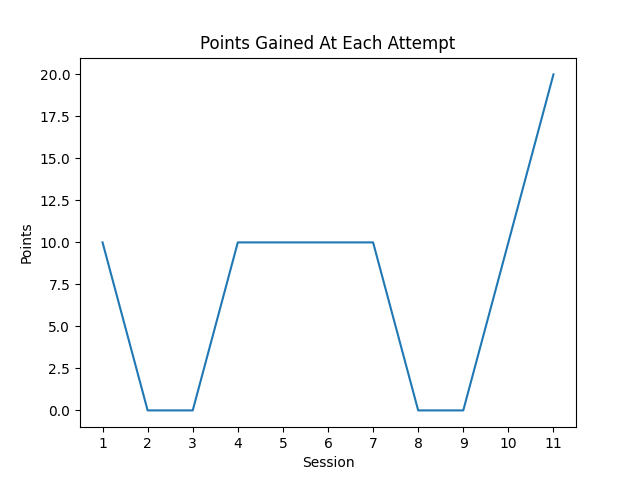
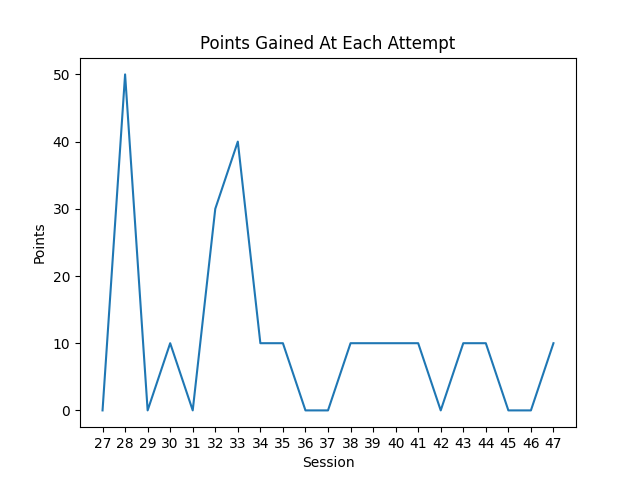
changed graph to only show last 20 attempts

diff --git a/menu.py b/menu.py
@@ -1,6 +1,6 @@
 import pygame, os, re, sys, WINDOW, game_level
 from boxes import Textbox
-from boxes import BoxGroup, DynamicBox
+from boxes import BoxGroup, StaticBox
 from transition import ScreenFade
 import matplotlib.pyplot as plt
 pygame.init()
@@ -51,11 +51,18 @@ def show_leaderboards(surface, user_data) -> None:
 def get_graph(username) -> None:
     user_data = WINDOW.read_json('user_info/users.json')
     points = user_data[username]['points']
+    start_x, end_x = 1, len(points)
+    if len(points) > 20:
+
+        start_x = len(points) - 20
+        end_x = len(points)
+        points = points[-21:]
+    x_range = range(start_x, end_x + 1)
     # points = [sum(points[:i]) for i in range(1,len(points))] # cumulative points
     color = 'black'
     fig, axis = plt.subplots(nrows=1,ncols=1) # just one graph
-    plt.xticks(range(1, len(points)+1, 1),color=color)
-    axis.plot([*range(1, len(points)+1)], points)
+    plt.xticks(x_range, color=color)
+    axis.plot(list(x_range), points)
     plt.xlabel('Session', color=color)
     plt.ylabel('Points', color=color)
 
@@ -111,7 +118,7 @@ def get_topic_boxes(username, user_data) -> list:
         else:
             current_time = WINDOW.convert_time_format(current_time)
         topics.append(
-            DynamicBox(padding1 * i + (width1 * i) + padding1, 200, (width1, 0.4 * width1), row_1[i], text=row_1[i]+f' \\n \\n Accuracy: {accuracy_1[i]}  \\n Best Time: {current_time}',center_text=(False,True),font_size=24))
+            StaticBox(padding1 * i + (width1 * i) + padding1, 200, (width1, 0.4 * width1), row_1[i], text=row_1[i]+f' \\n \\n Accuracy: {accuracy_1[i]}  \\n Best Time: {current_time}',center_text=(False,True),font_size=24))
 
     width2 = 520
     padding2 = (window.WIDTH - 2 * width2) // 3
@@ -123,7 +130,7 @@ def get_topic_boxes(username, user_data) -> list:
             current_time = 'Achieve 100% accuracy in a session to unlock'
         else:
             current_time = WINDOW.convert_time_format(current_time)
-        topics.append(DynamicBox(padding2 * j + (width2 * j) + padding2, topics[1].rect.h + padding_y + padding1,(width2, 0.35 * width2), row_2[j], text=row_2[j]+f' \\n \\n Accuracy: {accuracy_2[j]}  \\n Best Time: {current_time}',center_text=(False,True),font_size=22))
+        topics.append(StaticBox(padding2 * j + (width2 * j) + padding2, topics[1].rect.h + padding_y + padding1,(width2, 0.35 * width2), row_2[j], text=row_2[j]+f' \\n \\n Accuracy: {accuracy_2[j]}  \\n Best Time: {current_time}',center_text=(False,True),font_size=22))
     return topics
 
 def update_topic_boxes(username,user_data,topic_boxes) -> list:
@@ -177,15 +184,15 @@ def show_menu(username) -> None:
     question_files = ['1.1', '1.2', '1.3', '1.4', '2']
     topics = get_topic_boxes(username, user_data)
     rec = topics[2].rect
-    username_width = DynamicBox.MEDIUM_FONT.render(f'username: {"W"*15}', 1, (255, 255,255)).get_width() + 42  # finding out the maximum width for a username since 'W' is largest width character
+    username_width = StaticBox.MEDIUM_FONT.render(f'username: {"W"*15}', 1, (255, 255,255)).get_width() + 42  # finding out the maximum width for a username since 'W' is largest width character
 
-    username_box = DynamicBox(rec.x + (rec.w - username_width)//2, 40, (username_width, topics[1].rect.h // 2), 'username',text=f'Username: {username} \\n Points: {sum(user_data[username]["points"])}', font_size=23, center_text=(False,True))
+    username_box = StaticBox(rec.x + (rec.w - username_width)//2, 40, (username_width, topics[1].rect.h // 2), 'username',text=f'Username: {username} \\n Points: {sum(user_data[username]["points"])}', font_size=23, center_text=(False,True))
 
-    width = DynamicBox.MEDIUM_FONT.render(f'Leaderboards', 1, (255, 255, 255)).get_width() * 1.3
+    width = StaticBox.MEDIUM_FONT.render(f'Leaderboards', 1, (255, 255, 255)).get_width() * 1.3
     rec = topics[1].rect # the 2nd topic's rect
     # position the leaderboards box at the centered x position relative to the 2nd topic box
-    leaderboard_box = DynamicBox(rec.x + (rec.w - width)//2, 40, (width, topics[1].rect.h // 2), 'leaderboard',text='Leaderboards', center_text=(True,True))
-    instructions_box = DynamicBox(leaderboard_box.rect.x - width - 200, 40, (width, topics[1].rect.h // 2), 'instructions',text='How-To-Play', center_text=(True,True))
+    leaderboard_box = StaticBox(rec.x + (rec.w - width)//2, 40, (width, topics[1].rect.h // 2), 'leaderboard',text='Leaderboards', center_text=(True,True))
+    instructions_box = StaticBox(leaderboard_box.rect.x - width - 200, 40, (width, topics[1].rect.h // 2), 'instructions',text='How-To-Play', center_text=(True,True))
     all_boxes = BoxGroup(*topics, username_box, leaderboard_box, instructions_box)
     leaderboards = False
     fade = ScreenFade(1,(0,0,0))

diff --git a/QuestionWindow.py b/QuestionWindow.py
@@ -1,5 +1,5 @@
 import os, sys, pygame, WINDOW, random
-from boxes import Textbox, DynamicBox
+from boxes import Textbox, StaticBox
 from boxes import BoxGroup
 from transition import ScreenFade
 
@@ -9,7 +9,7 @@ def get_boxes(question_data, question, window):
     text = question
     options = question_data[question]['options']
 
-    question_box = DynamicBox(0, 0, (w, h*0.8), obj_type='question', text=text)
+    question_box = StaticBox(0, 0, (w, h*0.8), obj_type='question', text=text)
 
     left_shift = 0.1
     x1 = int(window.width*left_shift//4)
@@ -18,10 +18,10 @@ def get_boxes(question_data, question, window):
     option_w, option_h = (w*width//2,(window.height-h)//2)
 
     # creating all the option instances, and positioning them respectively
-    option_1=DynamicBox(question_box.rect.x + x1, question_box.rect.bottom + 13.3, (option_w, option_h), obj_type='option', text=options[0])
-    option_2=DynamicBox(question_box.rect.center[0] + x1, question_box.rect.bottom + 13.3, (option_w, option_h), obj_type='option', text=options[1])
-    option_3=DynamicBox(option_1.rect.left, option_1.rect.bottom + 13.3, (option_w, option_h), obj_type='option', text=options[2])
-    option_4=DynamicBox(option_2.rect.left, option_2.rect.bottom + 13.3, (option_w, option_h), obj_type='option', text=options[3])
+    option_1=StaticBox(question_box.rect.x + x1, question_box.rect.bottom + 13.3, (option_w, option_h), obj_type='option', text=options[0])
+    option_2=StaticBox(question_box.rect.center[0] + x1, question_box.rect.bottom + 13.3, (option_w, option_h), obj_type='option', text=options[1])
+    option_3=StaticBox(option_1.rect.left, option_1.rect.bottom + 13.3, (option_w, option_h), obj_type='option', text=options[2])
+    option_4=StaticBox(option_2.rect.left, option_2.rect.bottom + 13.3, (option_w, option_h), obj_type='option', text=options[3])
     main_group = BoxGroup(option_1, option_2, option_3, option_4, question_box)
     return main_group
 
@@ -39,7 +39,7 @@ def start_question(question, question_data, timer=0,x1=None):
 
     # feedback instance
     feedback_text = question_data[question]['feedback']
-    feedback = DynamicBox(0,40,(window.SIZE[0],window.SIZE[1]-40),text=feedback_text, obj_type='feedback',font_size=29,center_text=(False,False),colour=Display.BACKGROUND)
+    feedback = StaticBox(0,40,(window.SIZE[0],window.SIZE[1]-40),text=feedback_text, obj_type='feedback',font_size=29,center_text=(False,False),colour=Display.BACKGROUND)
 
     main_continue = Textbox(100, 0.9*window.height,text='Continue',text_size='medlarge')
     feedback_continue = Textbox(100, 0.9*window.height,text='Continue',text_size='medlarge')

diff --git a/WINDOW.py b/WINDOW.py
@@ -157,17 +157,14 @@ class Display:
 
         self.background=background
         self.back_image = pygame.transform.scale(pygame.image.load(get_path('images/go_back.png')), (100, 38))
-        self.arrow_rect = pygame.Rect(self.BACK_X, self.BACK_Y, *self.back_image.get_size())
-
-    def blit(self, content, coords):
-        self.screen.blit(content, coords)
+        self.back_rect = pygame.Rect(self.BACK_X, self.BACK_Y, *self.back_image.get_size())
 
     def draw_back(self, pos=None):
         if pos is None:
             pos = (self.BACK_X, self.BACK_Y)
-        self.arrow_rect = pygame.Rect(*pos, *self.back_image.get_size())
+        self.back_rect = pygame.Rect(*pos, *self.back_image.get_size())
         # pos = (self.BACK_X, self.BACK_Y)
-        # self.arrow_rect = pygame.Rect(*pos,*self.back_image.get_size())
+        # self.back_rect = pygame.Rect(*pos,*self.back_image.get_size())
         self.screen.blit(self.back_image,pos)
         pygame.draw.rect(self.screen, (83, 203, 230), (*pos,*self.back_image.get_size()),2)
 
@@ -178,6 +175,7 @@ class Display:
             self.screen.blit(self.background,(0,0))
         if back:
             self.draw_back(pos)
+
         if show_mouse_pos:
             mouse_pos = self.MEDIUM_FONT.render(str(pygame.mouse.get_pos()),1,self.WHITE)
             rect = mouse_pos.get_rect()
@@ -187,7 +185,8 @@ class Display:
         if not mouse_pos:
             mouse_pos = pygame.mouse.get_pos()
 
-        if self.arrow_rect.collidepoint(mouse_pos) and pygame.mouse.get_pressed()[0]: return 1
+        if self.back_rect.collidepoint(mouse_pos) and pygame.mouse.get_pressed()[0]:
+            return 1
 
     def draw_text(self,text,pos,size='MEDIUM',colour=WHITE, center=(False, False)):
         center_x, center_y = center

diff --git a/testingggg.py b/testingggg.py
@@ -303,8 +303,8 @@ window = WINDOW.Display(new_window=True,caption='Stopwatch',size=(500,250))
 time1 = pygame.time.get_ticks()
 timer=0
 pause = False
-pause_button = boxes.DynamicBox(190,70,(120,40),'pause','Pause',font_size=20)
-reset_button = boxes.DynamicBox(190,120,(120,40),'reset','Reset',font_size=20)
+pause_button = boxes.StaticBox(190,70,(120,40),'pause','Pause',font_size=20)
+reset_button = boxes.StaticBox(190,120,(120,40),'reset','Reset',font_size=20)
 clicked=False
 while 1:
     window.refresh()

diff --git a/game_level.py b/game_level.py
@@ -18,9 +18,9 @@ coin_path = os.path.join(image_path, 'coin')
 FPS = 60
 clock = pygame.time.Clock()
 window = WINDOW.Display(new_window=True)
-ENEMY = random.choice(['knight', 'samurai', 'stormy'])
-ENEMY = 'stormy'
+ENEMY = random.choice(['knight', 'samurai', 'stormy']) # pick a random enemy
 PLAYER = 'player'
+# LEVEL = random.randint(range(1,7))
 # ENEMY_IMG = 'samurai'
 # PLAYER_IMG = pygame.image.load(f'images/mobs/{PLAYER}/default.png')
 

diff --git a/boxes.py b/boxes.py
@@ -102,7 +102,7 @@ class Inputbox(Textbox):
 
 
 # noinspection PyArgumentList
-class DynamicBox(Textbox):
+class StaticBox(Textbox):
     LARGE_FONT = pygame.font.SysFont('Sans', 35)
     MEDLARGE_FONT = pygame.font.SysFont('Sans', 30)
     MEDIUM_FONT = pygame.font.SysFont('Sans', 25)
